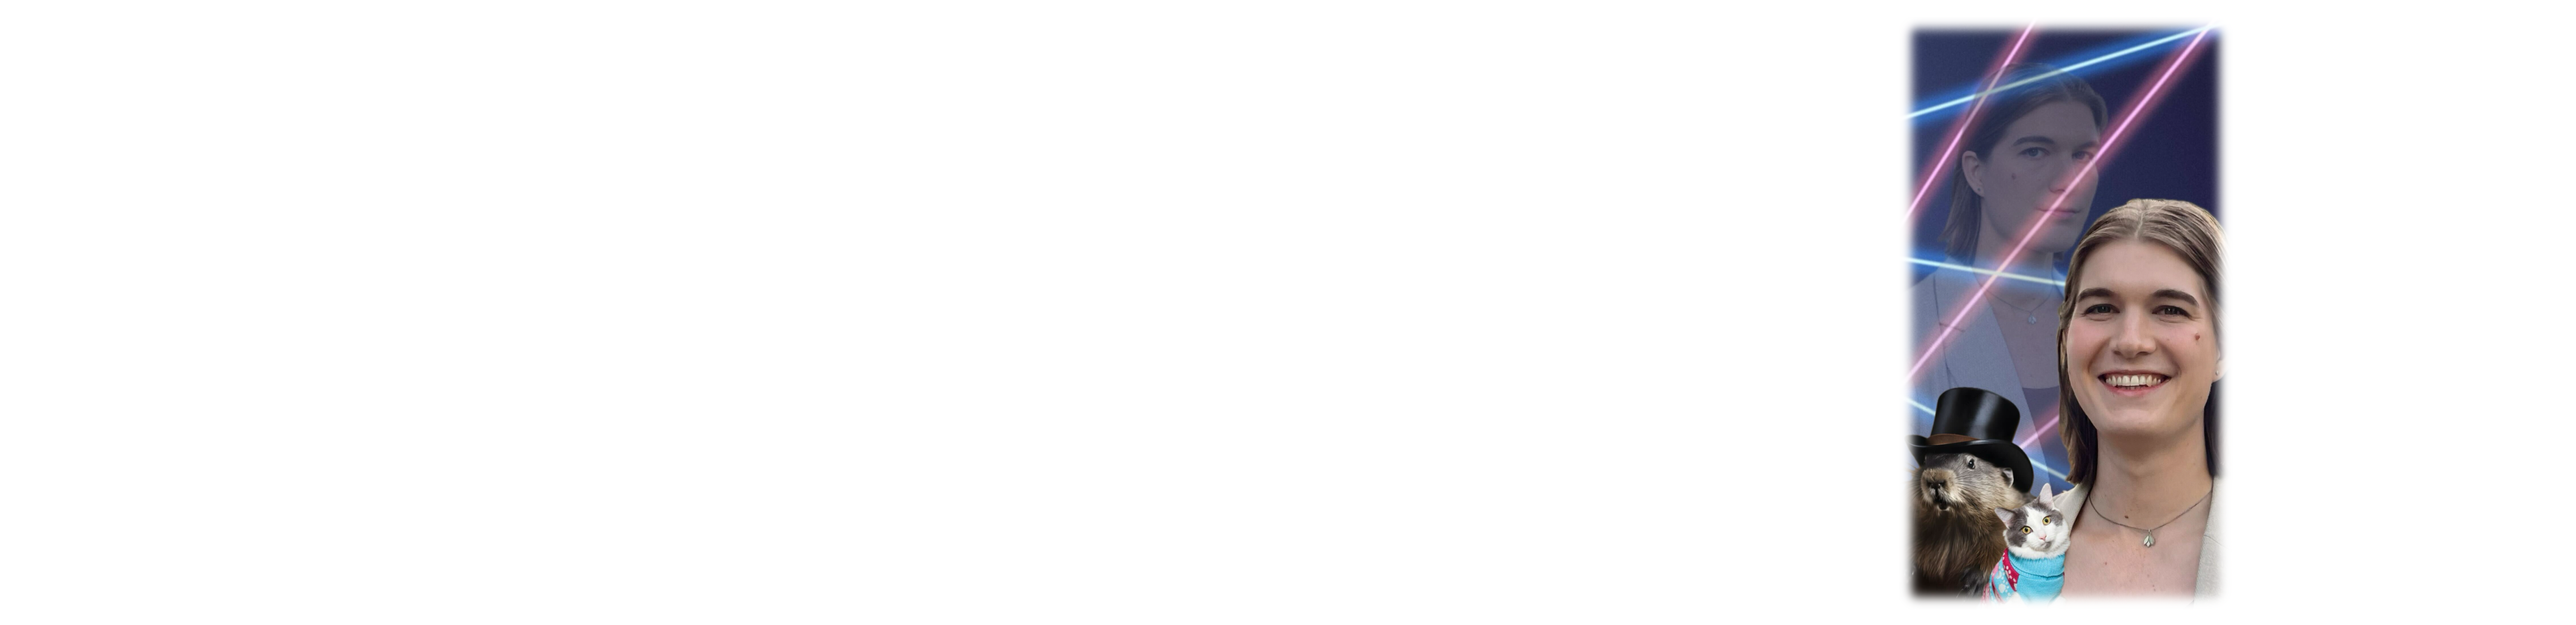
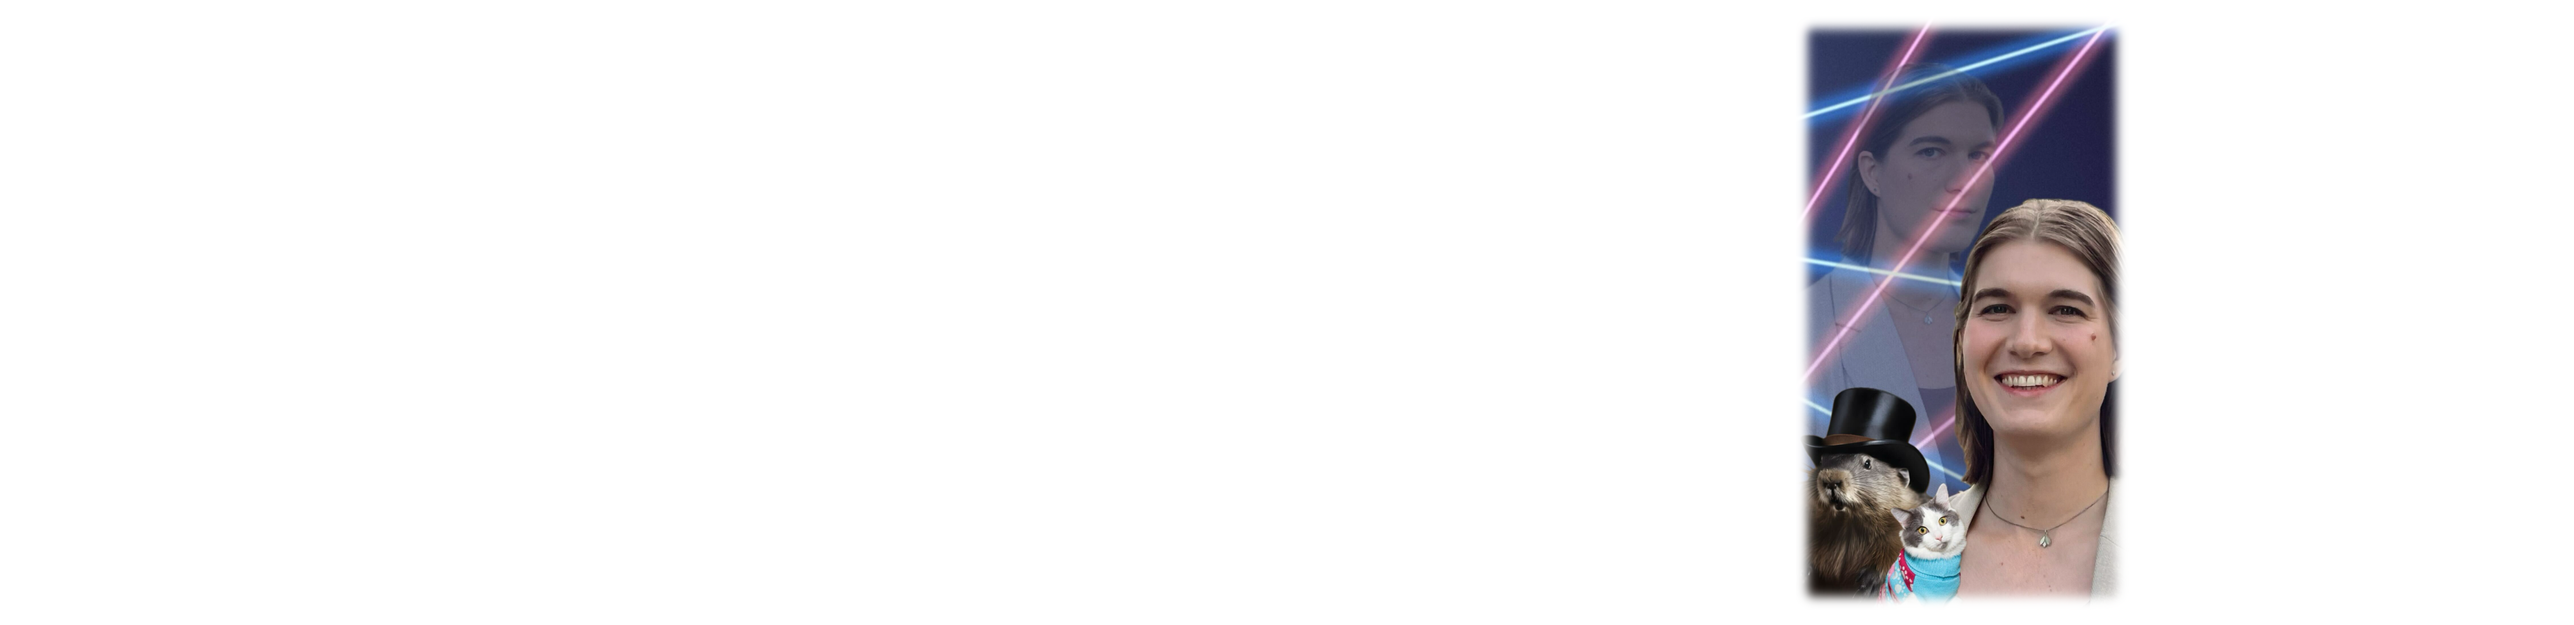
try again images

Changed region(s): [[0.6869, 0.0306, 0.8742, 0.9806]]

diff --git a/_pages/lab.md b/_pages/lab.md
@@ -8,7 +8,7 @@ layouts_gallery:
     
 ---
 
-<img src="/assets/images/yosemite-falls.jpg" width="500" title="Lab trip to Yosemite on the way to APS 2025. Featuring collaborator Danielle Skinner too!"/>
+<img src="/assets/images/yosemite-falls.jpg" width="400" title="Lab trip to Yosemite on the way to APS 2025. Featuring collaborator Danielle Skinner too!"/>
 
 We do student-centered research in physics and computing education. Here are the other lab members.
 

diff --git a/_pages/about.md b/_pages/about.md
@@ -16,7 +16,7 @@ bbq:
     alt: "Group photo from the OSUPER end of year BBQ in 2024"
 ---
 
-<img src="/assets/images/pfp-laser.jpg" width="300" align="right" style="margin-left: 100"/>
+<img src="/assets/images/pfp-laser.jpg" width="300" style="float:right; padding-left:100"/>
 
 **Patti Hamerski, PhD**  
 (she/her)
